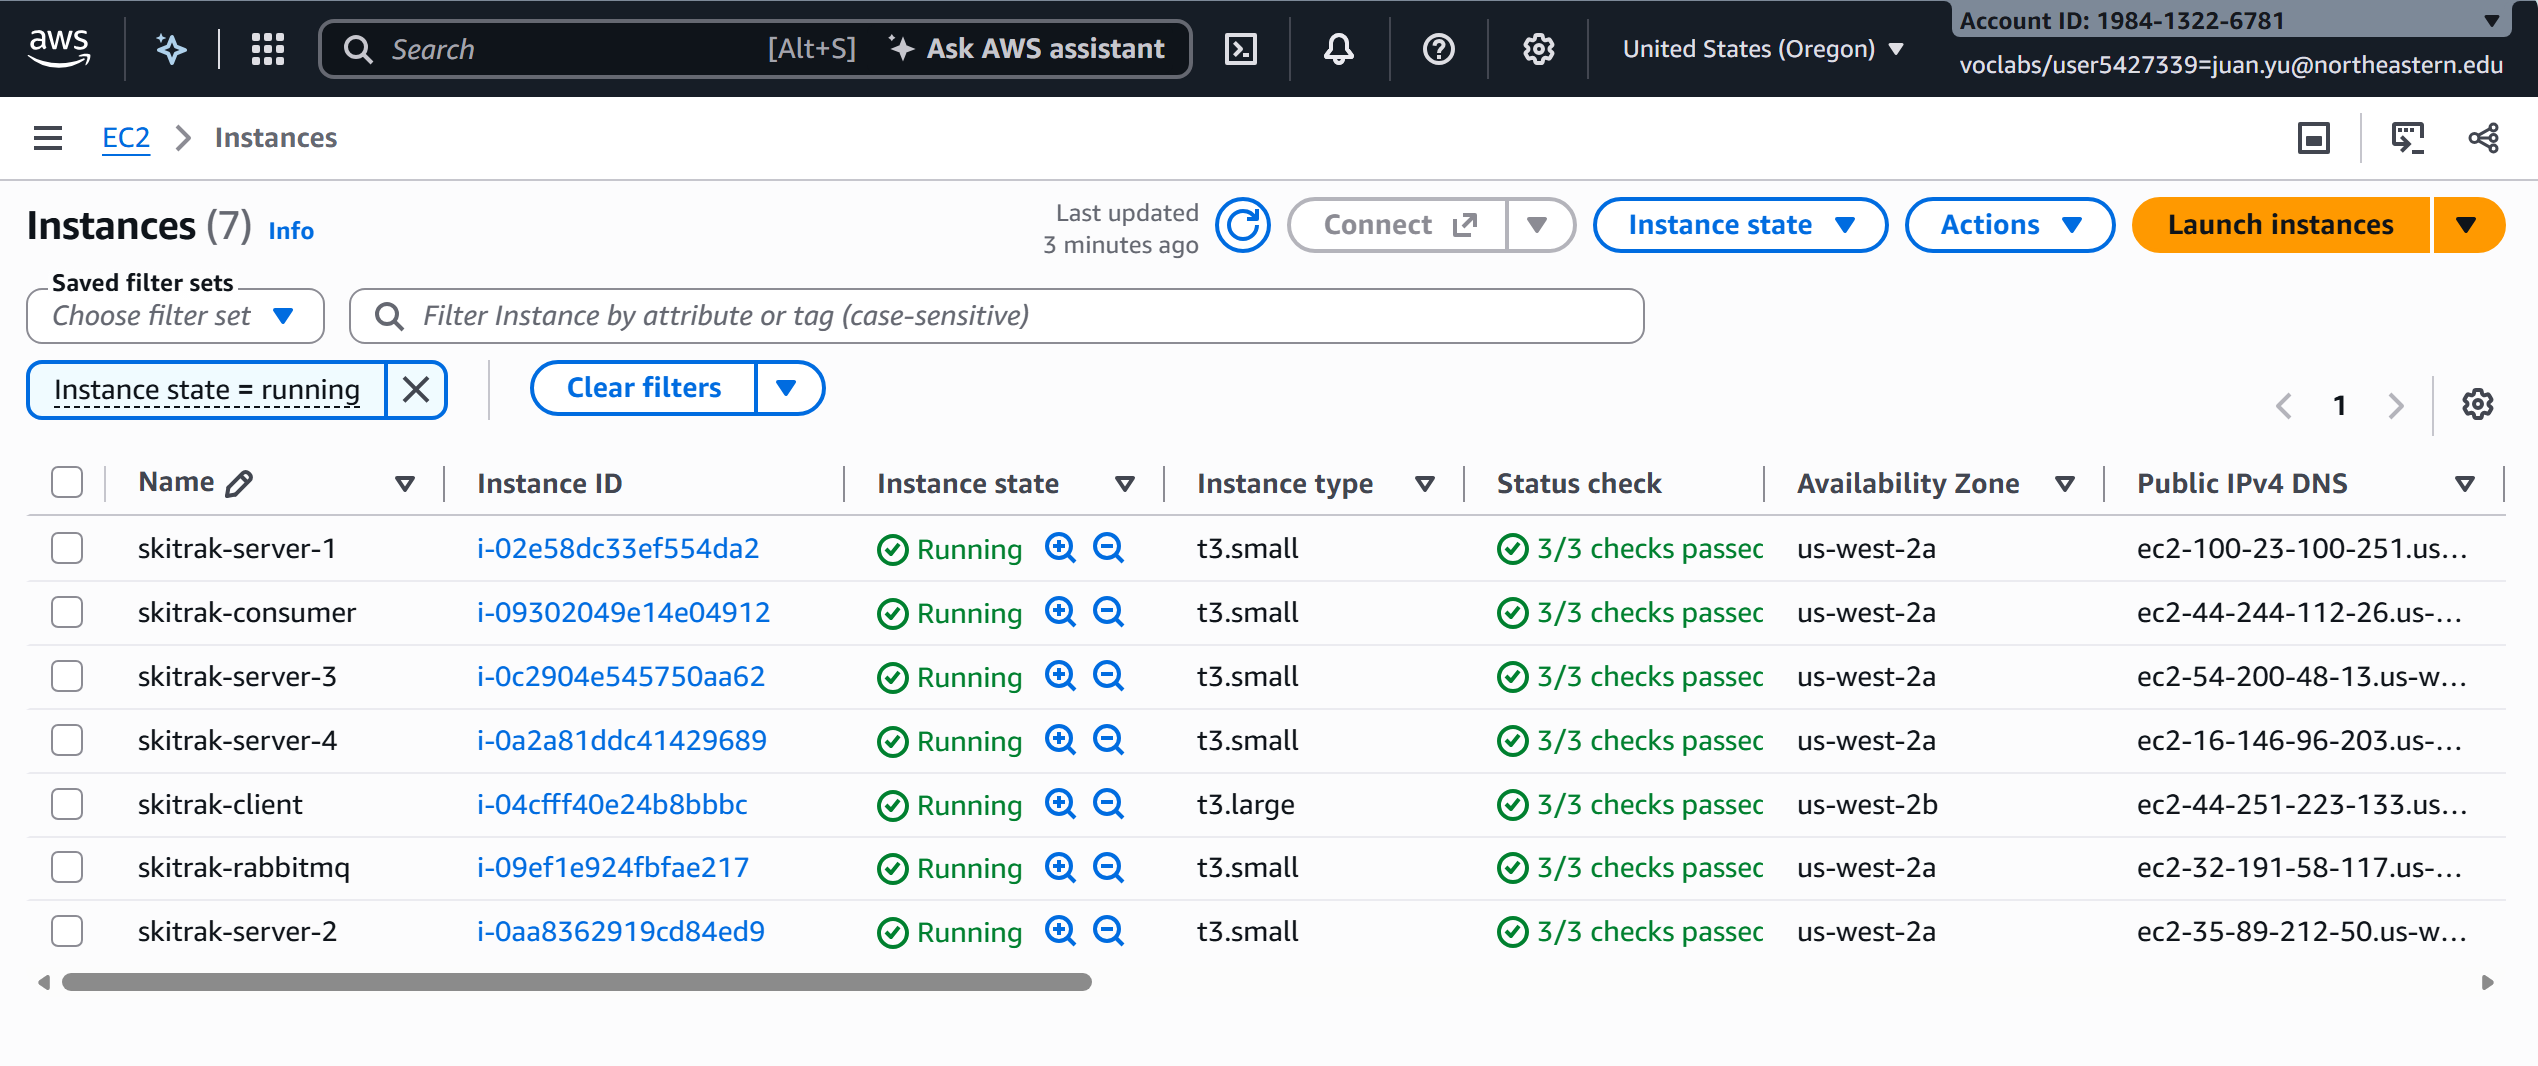
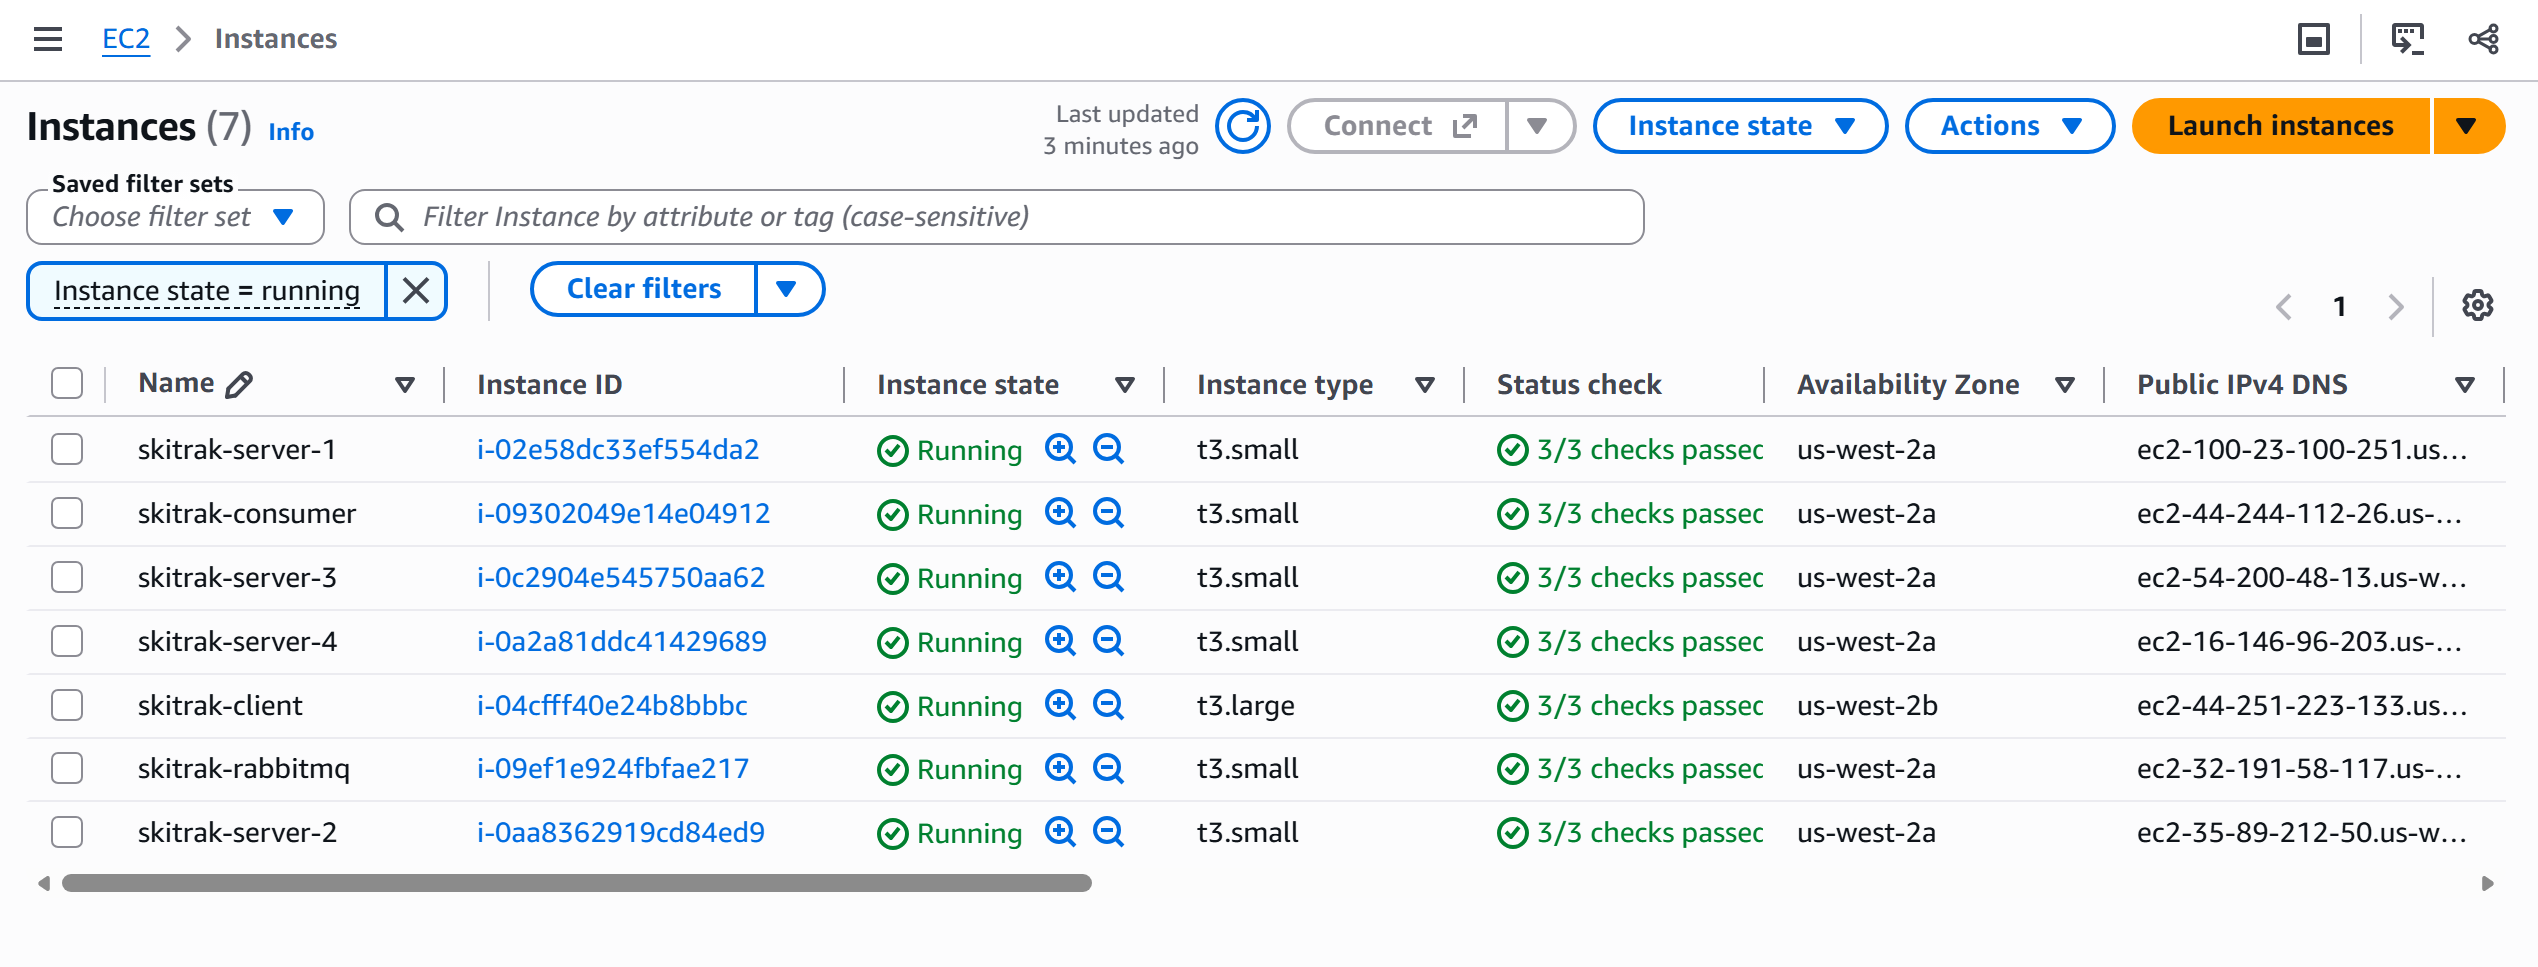
Report: crop account info from screenshots, add raw client output appendix, wording fixes

diff --git a/TEST_RESULTS.md b/TEST_RESULTS.md
@@ -146,7 +146,7 @@ run ending 2026-11-08T18:20:08+0000: processed=500100 maxLag=57ms maxThreads=2 d
 | alb4-t512b | 500,000 | 500,100 | 57 ms | 0 |
 
 **Queue depth < 1,000.** The highest measured total depth (ready + unacked) was 265, in the 1M run (`queue_monitor.py`).
-The graphs show approx. 30–40 for single-500k and approx. 260 at most for the load-balanced runs (§4).
+The graphs show approx. 30–40 for single-500k and a peak of 265 (1M run, measured) for the load-balanced runs (§4).
 
 **No swipe loss.** In every segment, consumer processed = client successful swipes + 100. Before warmup, the client
 measures single-thread RTT by sending `LITTLES_LAW_SAMPLES = 100` real swipes (`Main.measureSingleThreadRtt`). The
@@ -214,7 +214,6 @@ So the broker CPU was 95–99% busy in the main phase. Main-phase excerpt:
 
 ```
  r  b   swpd   free   buff  cache   si   so    bi    bo   in   cs us sy id wa st
- 8  1      0 338764   2168 1151564    0    0     0 24822 20325 37971 58 29  6  8  0
  4  0      0 318252   2168 1151252    0    0     0 14946 18306 13015 72 23  5  0  0
  2  0      0 332280   2168 1131560    0    0     0 14468 17413 11587 76 22  2  0  0
  2  1      0 328744   2168 1126808    0    0     0 13946 17309 11240 78 21  1  0  0
@@ -329,5 +328,140 @@ changes the A1 API.
 
 - `deployment/consumer/skitrak-consumer.service`: `-Xmx2g` → `-Xmx1200m`. The consumer host (t3.small) has 2 GB of total RAM,
   so a 2 GB heap risked an OOM kill.
-- The client runs on a separate EC2 instance. The `results/` folder must be created on that instance before `tee`.
+- On the client instance, I created the results/ folder before the runs so that tee could write each run's output.
 - The consumer was restarted before each run so that aggregates and the dedupe set do not carry over between runs.
+
+## Appendix: Raw client output
+Copied from the client output files. The leaderboard JSON section is omitted (see §3).
+
+### single-500k (`results/single-500k-output.txt`)
+
+```
+===== Ingest Path =====
+Successful swipes:   500000
+Failed swipes:       0
+Retries:             0
+Connection errors:   0
+Warmup:  32 threads, 12183 ms, 2627 swipes/s
+Main:    256 threads, 88940 ms, 5262 swipes/s
+Total wall time: 101123 ms
+Overall throughput: 4944 swipes/s
+HTTP connections: 1 shared HttpClient for ingest (HTTP/1.1 keep-alive pool), 1 separate HttpClient for WebSockets
+
+===== Subscribe Path =====
+Resort  1: 135 updates, connect 38 ms, 0 reconnections
+Resort  2: 132 updates, connect 13 ms, 0 reconnections
+Resort  3: 137 updates, connect 49 ms, 0 reconnections
+Resort  4: 137 updates, connect 11 ms, 0 reconnections
+Resort  5: 131 updates, connect 8 ms, 0 reconnections
+Resort  6: 134 updates, connect 10 ms, 0 reconnections
+Resort  7: 138 updates, connect 11 ms, 0 reconnections
+Resort  8: 130 updates, connect 8 ms, 0 reconnections
+Resort  9: 140 updates, connect 8 ms, 0 reconnections
+Resort 10: 139 updates, connect 10 ms, 0 reconnections
+
+===== Performance Analysis =====
+Ingest latency (n=500000): mean=45.34, median=25, p95=137, p99=220, min=4, max=2234 (ms)
+Throughput per resort:
+  Resort  1: 49873 swipes, 493 swipes/s
+  Resort  2: 50037 swipes, 495 swipes/s
+  Resort  3: 49688 swipes, 491 swipes/s
+  Resort  4: 49982 swipes, 494 swipes/s
+  Resort  5: 50436 swipes, 499 swipes/s
+  Resort  6: 49779 swipes, 492 swipes/s
+  Resort  7: 50048 swipes, 495 swipes/s
+  Resort  8: 49897 swipes, 493 swipes/s
+  Resort  9: 50168 swipes, 496 swipes/s
+  Resort 10: 50092 swipes, 495 swipes/s
+Push latency (n=1353): mean=9.11, median=4, p95=32, p99=118, min=1, max=399 (ms)
+Total leaderboard updates delivered: 1353
+Note: push latency includes clock skew between client and server clocks.
+```
+
+### alb2-500k (`results/alb2-500k-output.txt`)
+
+```
+===== Ingest Path =====
+Successful swipes:   500000
+Failed swipes:       0
+Retries:             0
+Connection errors:   0
+Warmup:  32 threads, 11317 ms, 2828 swipes/s
+Main:    256 threads, 74474 ms, 6284 swipes/s
+Total wall time: 85791 ms
+Overall throughput: 5828 swipes/s
+HTTP connections: 1 shared HttpClient for ingest (HTTP/1.1 keep-alive pool), 1 separate HttpClient for WebSockets
+
+===== Subscribe Path =====
+Resort  1: 135 updates, connect 31 ms, 0 reconnections
+Resort  2: 153 updates, connect 33 ms, 0 reconnections
+Resort  3: 125 updates, connect 7 ms, 0 reconnections
+Resort  4: 127 updates, connect 7 ms, 0 reconnections
+Resort  5: 130 updates, connect 11 ms, 0 reconnections
+Resort  6: 137 updates, connect 6 ms, 0 reconnections
+Resort  7: 133 updates, connect 11 ms, 0 reconnections
+Resort  8: 153 updates, connect 6 ms, 0 reconnections
+Resort  9: 127 updates, connect 8 ms, 0 reconnections
+Resort 10: 130 updates, connect 7 ms, 0 reconnections
+
+===== Performance Analysis =====
+Ingest latency (n=500000): mean=38.47, median=37, p95=66, p99=99, min=4, max=455 (ms)
+Throughput per resort:
+  Resort  1: 49981 swipes, 583 swipes/s
+  Resort  2: 49848 swipes, 581 swipes/s
+  Resort  3: 49759 swipes, 580 swipes/s
+  Resort  4: 49848 swipes, 581 swipes/s
+  Resort  5: 49984 swipes, 583 swipes/s
+  Resort  6: 50062 swipes, 584 swipes/s
+  Resort  7: 50255 swipes, 586 swipes/s
+  Resort  8: 50548 swipes, 589 swipes/s
+  Resort  9: 49664 swipes, 579 swipes/s
+  Resort 10: 50051 swipes, 583 swipes/s
+Push latency (n=1350): mean=10.73, median=9, p95=21, p99=56, min=1, max=340 (ms)
+Total leaderboard updates delivered: 1350
+Note: push latency includes clock skew between client and server clocks.
+```
+
+### alb4-500k (`results/alb4-500k-output.txt`)
+
+```
+===== Ingest Path =====
+Successful swipes:   500000
+Failed swipes:       0
+Retries:             0
+Connection errors:   0
+Warmup:  32 threads, 11320 ms, 2827 swipes/s
+Main:    256 threads, 74832 ms, 6254 swipes/s
+Total wall time: 86152 ms
+Overall throughput: 5804 swipes/s
+HTTP connections: 1 shared HttpClient for ingest (HTTP/1.1 keep-alive pool), 1 separate HttpClient for WebSockets
+
+===== Subscribe Path =====
+Resort  1: 131 updates, connect 34 ms, 0 reconnections
+Resort  2: 139 updates, connect 34 ms, 0 reconnections
+Resort  3: 130 updates, connect 36 ms, 0 reconnections
+Resort  4: 125 updates, connect 13 ms, 0 reconnections
+Resort  5: 129 updates, connect 40 ms, 0 reconnections
+Resort  6: 120 updates, connect 17 ms, 0 reconnections
+Resort  7: 129 updates, connect 7 ms, 0 reconnections
+Resort  8: 144 updates, connect 7 ms, 0 reconnections
+Resort  9: 128 updates, connect 12 ms, 0 reconnections
+Resort 10: 125 updates, connect 8 ms, 0 reconnections
+
+===== Performance Analysis =====
+Ingest latency (n=500000): mean=38.69, median=37, p95=63, p99=87, min=4, max=251 (ms)
+Throughput per resort:
+  Resort  1: 50373 swipes, 585 swipes/s
+  Resort  2: 50107 swipes, 582 swipes/s
+  Resort  3: 49793 swipes, 578 swipes/s
+  Resort  4: 49820 swipes, 578 swipes/s
+  Resort  5: 50111 swipes, 582 swipes/s
+  Resort  6: 49958 swipes, 580 swipes/s
+  Resort  7: 49970 swipes, 580 swipes/s
+  Resort  8: 50123 swipes, 582 swipes/s
+  Resort  9: 49981 swipes, 580 swipes/s
+  Resort 10: 49764 swipes, 578 swipes/s
+Push latency (n=1300): mean=13.95, median=12, p95=25, p99=70, min=1, max=483 (ms)
+Total leaderboard updates delivered: 1300
+Note: push latency includes clock skew between client and server clocks.
+```
